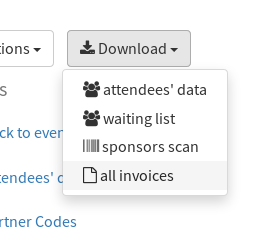
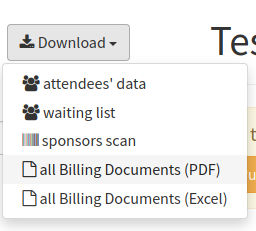
allow organizers to download all billing documents

Changed region(s): [[0.0, 0.0917, 1.0, 1.0], [0.8125, 0.0917, 1.0, 0.2445], [0.8438, 0.3668, 0.875, 0.6725]]

diff --git a/src/main/webapp/resources/angular-templates/admin/partials/main/sidebar.html b/src/main/webapp/resources/angular-templates/admin/partials/main/sidebar.html
@@ -21,8 +21,8 @@
                     <li role="menuitem"><a data-ng-click="ctrl.openFieldSelectionModal()"><i class="fa fa-users"></i> attendees' data</a></li>
                     <li role="menuitem"><a data-ng-click="ctrl.openWaitingQueueModal()" ><i class="fa fa-group"></i> waiting list</a></li>
                     <li role="menuitem"><a data-ng-click="ctrl.downloadSponsorsScan()" ><i class="fa fa-barcode"></i> sponsors scan</a></li>
-                    <li role="menuitem"><a data-ng-click="ctrl.downloadInvoices()" ><i class="fa fa-file-o"></i> all Invoices (PDF)</a></li>
-                    <li role="menuitem"><a data-ng-click="ctrl.downloadInvoices('xls')" ><i class="fa fa-file-o"></i> all Invoices (Excel)</a></li>
+                    <li role="menuitem"><a data-ng-click="ctrl.downloadInvoices()" ><i class="fa fa-file-o"></i> all Billing Documents (PDF)</a></li>
+                    <li role="menuitem"><a data-ng-click="ctrl.downloadInvoices('xls')" ><i class="fa fa-file-o"></i> all Billing Documents (Excel)</a></li>
                 </ul>
             </li>
         </ul>

diff --git a/src/main/webapp/resources/js/admin/feature/configuration/regenerate-invoices.html b/src/main/webapp/resources/js/admin/feature/configuration/regenerate-invoices.html
@@ -6,7 +6,7 @@
         <div class="row">
             <div class="col-xs-12 text-left">
                 Invoices are generated as PDFs and remain persistent based on the original event settings. If you make changes to your event settings and need this reflected on previously issued invoices, you can regenerate the invoice PDFs via this tool.<br><br>
-                <b>Note</b> that once changed, the changes will be reflected across all invoices generated between the date range chosen.<br>
+                <b>Note</b> that once changed, the changes will be reflected across all invoices generated between the chosen date range.<br>
                 If you need to change the info of a single invoice to reflect a change in contact details, you should regenerate the invoice in the relevant reservation record only.
             </div>
         </div>

diff --git a/src/main/java/alfio/repository/BillingDocumentRepository.java b/src/main/java/alfio/repository/BillingDocumentRepository.java
@@ -26,6 +26,11 @@ import java.util.Optional;
 @QueryRepository
 public interface BillingDocumentRepository {
 
+    String LOAD_ALL_BY_EVENT_ID = "select a.* from billing_document a inner join" +
+        " (select max(generation_ts) as time,reservation_id_fk from billing_document where status = 'VALID' and type = 'INVOICE' and event_id_fk = :eventId group by reservation_id_fk) b" +
+        " on a.generation_ts = b.time and a.reservation_id_fk = b.reservation_id_fk" +
+        " union select * from billing_document where status = 'VALID' and event_id_fk = :eventId and type <> 'INVOICE'";
+
     @Query("select * from billing_document where reservation_id_fk = :reservationId and status = 'VALID' order by generation_ts desc limit 1")
     Optional<BillingDocument> findLatestByReservationId(@Bind("reservationId") String reservationId);
 
@@ -62,14 +67,11 @@ public interface BillingDocumentRepository {
         " on a.generation_ts = b.time and a.reservation_id_fk = b.reservation_id_fk")
     List<BillingDocument> findAllOfTypeForEvent(@Bind("type") BillingDocument.Type type, @Bind("eventId") int eventId);
 
-    @Query(
-        "select a.* from billing_document a inner join " +
-            "(select max(generation_ts) as time,reservation_id_fk from billing_document where status = 'VALID' and type = 'INVOICE' and event_id_fk = :eventId group by reservation_id_fk) b" +
-        " on a.generation_ts = b.time and a.reservation_id_fk = b.reservation_id_fk" +
-        " union select * from billing_document where status = 'VALID' and event_id_fk = :eventId and type <> 'INVOICE'" +
-        " order by reservation_id_fk, generation_ts"
-    )
+    @Query(LOAD_ALL_BY_EVENT_ID + " order by reservation_id_fk, generation_ts")
     List<BillingDocument> findAllForEvent(@Bind("eventId") int eventId);
+
+    @Query("select count(*) from (" + LOAD_ALL_BY_EVENT_ID + ") docs")
+    Integer countAllForEvent(@Bind("eventId") int eventId);
 
     @Query("delete from billing_document where reservation_id_fk = :reservationId")
     int deleteForReservation(@Bind("reservationId") String reservationId);

diff --git a/src/main/java/alfio/repository/TicketReservationRepository.java b/src/main/java/alfio/repository/TicketReservationRepository.java
@@ -147,9 +147,6 @@ public interface TicketReservationRepository {
     @Query("update tickets_reservation set invoice_number = :invoiceNumber where id = :reservationId")
     int setInvoiceNumber(@Bind("reservationId") String reservationId, @Bind("invoiceNumber") String invoiceNumber);
 
-    @Query("select count(*) from tickets_reservation where invoice_number is not null and event_id_fk = :eventId")
-    Integer countInvoices(@Bind("eventId") int eventId);
-
 
     @Query("update tickets_reservation set vat_status = :vatStatus, src_price_cts = :srcPriceCts, " +
         " final_price_cts = :finalPriceCts, vat_cts = :vatCts, discount_cts = :discountCts, currency_code = :currencyCode, " +

diff --git a/src/main/java/alfio/controller/api/admin/EventApiController.java b/src/main/java/alfio/controller/api/admin/EventApiController.java
@@ -619,9 +619,9 @@ public class EventApiController {
     }
 
     @GetMapping("/events/{eventName}/invoices/count")
-    public Integer countInvoicesForEvent(@PathVariable("eventName") String eventName, Principal principal) {
+    public Integer countBillingDocumentsForEvent(@PathVariable("eventName") String eventName, Principal principal) {
         return eventManager.getOptionalEventAndOrganizationIdByName(eventName, principal.getName())
-            .map(e -> ticketReservationManager.countInvoices(e.getId()))
+            .map(e -> ticketReservationManager.countBillingDocuments(e.getId()))
             .orElse(0);
     }
 

diff --git a/src/test/java/alfio/controller/api/v2/user/reservation/BillingDocumentCreationIntegrationTest.java b/src/test/java/alfio/controller/api/v2/user/reservation/BillingDocumentCreationIntegrationTest.java
@@ -243,6 +243,7 @@ class BillingDocumentCreationIntegrationTest extends BaseIntegrationTest {
         assertTrue(result.getData().isCreditNoteGenerated());
         var billingDocuments = billingDocumentRepository.findAllByReservationId(reservationId);
         assertEquals(2, billingDocuments.size());
+        assertEquals(2, ticketReservationManager.countBillingDocuments(event.getId()));
         assertTrue(billingDocuments.stream().allMatch(bd -> bd.getStatus() == BillingDocument.Status.VALID));
 
         assertEquals(BillingDocument.Type.CREDIT_NOTE, billingDocuments.get(0).getType());

diff --git a/src/main/java/alfio/manager/TicketReservationManager.java b/src/main/java/alfio/manager/TicketReservationManager.java
@@ -2368,8 +2368,8 @@ public class TicketReservationManager {
             .map(entry -> Pair.of(reservations.get(entry.getKey()), entry.getValue()));
     }
 
-    public Integer countInvoices(int eventId) {
-        return ticketReservationRepository.countInvoices(eventId);
+    public Integer countBillingDocuments(int eventId) {
+        return billingDocumentRepository.countAllForEvent(eventId);
     }
 
 

diff --git a/website/content/en/docs/Configuration/Invoice/_index.md b/website/content/en/docs/Configuration/Invoice/_index.md
@@ -77,8 +77,8 @@ If you want to regenerate/download an invoice for a reservation, head to the Res
 
 ![Download Single Invoice](/img/configuration/invoice/standard/005.png)
 
-#### Download all invoices for an event
+#### Download all Billing Documents for an event
 
-You can download all the invoices generated for an event, by selecting _Download_ -> _all invoices_ on the event detail page
+You can download all the invoices generated for an event, by selecting _Download_ -> _all Billing Documents_ on the event detail page
 
-![Download All Invoices](/img/configuration/invoice/standard/006.png)
+![Download All Billing Documents](/img/configuration/invoice/standard/006.png)
